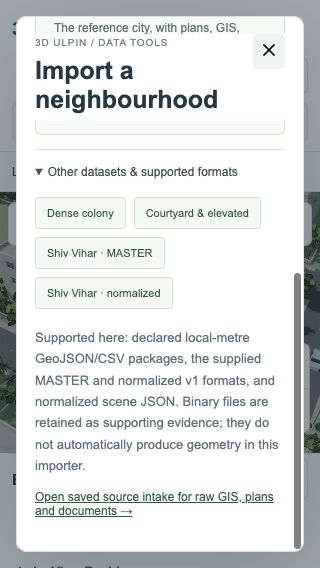
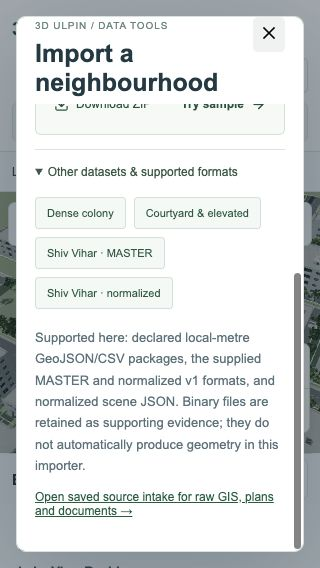
docs: record responsive verification and point-cloud processing gap

diff --git a/docs/engineering-plan/tasks/T091_RESULT.md b/docs/engineering-plan/tasks/T091_RESULT.md
@@ -1,0 +1,14 @@
+# T091 — mobile scrolling and sidebar reachability
+
+Implemented alone after reproducing the inspector’s 32px scroll region and clipped footer at 390 × 667.
+
+- Small screens use document scrolling with a bounded map; map pan/orbit gestures remain on the canvas.
+- Both map sidebars have one scroll owner. Explorer close stays visible at the end of all 49 properties; opening it preserves the inspector. Escape restores focus without clearing the selected floor.
+- The register exposes its previously hidden building details through an accessible disclosure, keeps Back to block map available, and lets the full floor/resident/source schedule flow down the page.
+- Wrapping header uses its actual height; narrow import dialogs scroll and retain their close control. Short desktop maps no longer exceed the available viewport.
+
+Validation: production build (including TypeScript) passed; JS syntax and diff checks passed. Browser verified 390 × 667 inspector footer, register building details and basement; 320 × 568 header, map drag, expanded import options and close; 844 × 390 explorer final layer; 1024 × 500 inspector footer; 1280 × 720 selected floor retained after explorer Escape. No horizontal page overflow at either phone size. Screenshots: docs/evidence/t091/. Responsive browser emulation, not a physical-device touch test.
+
+Deployment: code commit 849b389 pushed to main and feat/visual-ml-completion, built successfully on DigitalOcean, service active and HTTPS datasets route returns 200. Hosted responsive stylesheet SHA-256 matches the local verified build. Safari reload reopened saved Lake View with 50 source files and the selected floor 3D-T9GRMW08XWS50W:1. No data migration, identity changes or source replacement.
+
+Point-cloud clarification: the complete Lake View package contains LAS/LAZ with 62,886 synthetic points. Its manifest explicitly states that points were sampled from authored ground/roof polygons. The current importer retains these originals; supplied vector and floor schedule geometry drives the map. Actual point-cloud generation, alignment, quality review and provenance overlays require a separate implementation. Do not describe the current buildings as extracted from a LiDAR survey.

diff --git a/docs/engineering-plan/CURRENT_WORK.md b/docs/engineering-plan/CURRENT_WORK.md
@@ -1,3 +1,7 @@
+## Current — T091 mobile scrolling and sidebars
+
+Responsive map, explorer, inspector, register and import dialog fixes are implemented and deployed. Browser verified phone, landscape and short desktop layouts; all property/floor controls remain reachable. [Result](tasks/T091_RESULT.md). Source data and identities are unchanged. Point-cloud generation remains a separate gap: the existing sample LAS/LAZ is retained and does not currently generate the map geometry.
+
 ## Current — T083 datasets persisted
 
 Lake View and Shiv Vihar are saved in local linked PostgreSQL and object storage, with immutable canonical snapshots, source bindings and verified original bytes. Map and Batches list actual saved UUIDs. Duplicate saves reuse records; refresh/server restart reopen stored packages. Browser Save action and floor register verified. See [result](tasks/T083_RESULT.md). Saved fictional records still require review; T080 broader processing/publication remains open.
